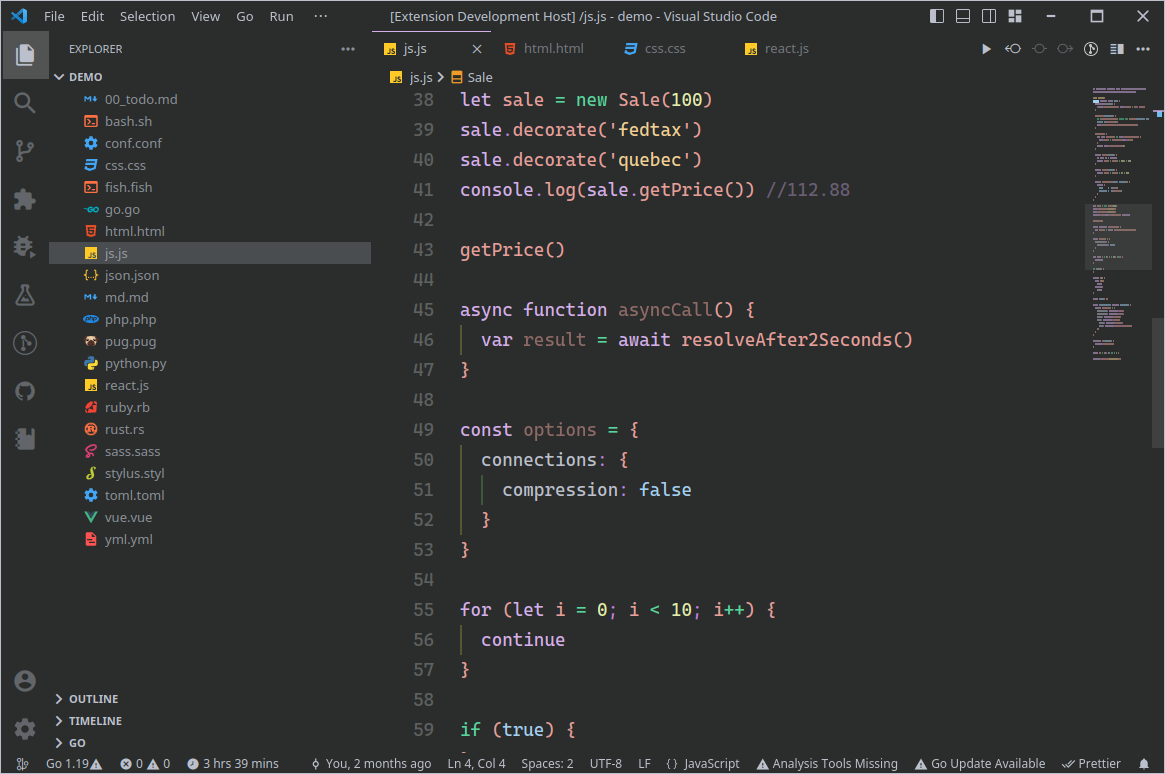
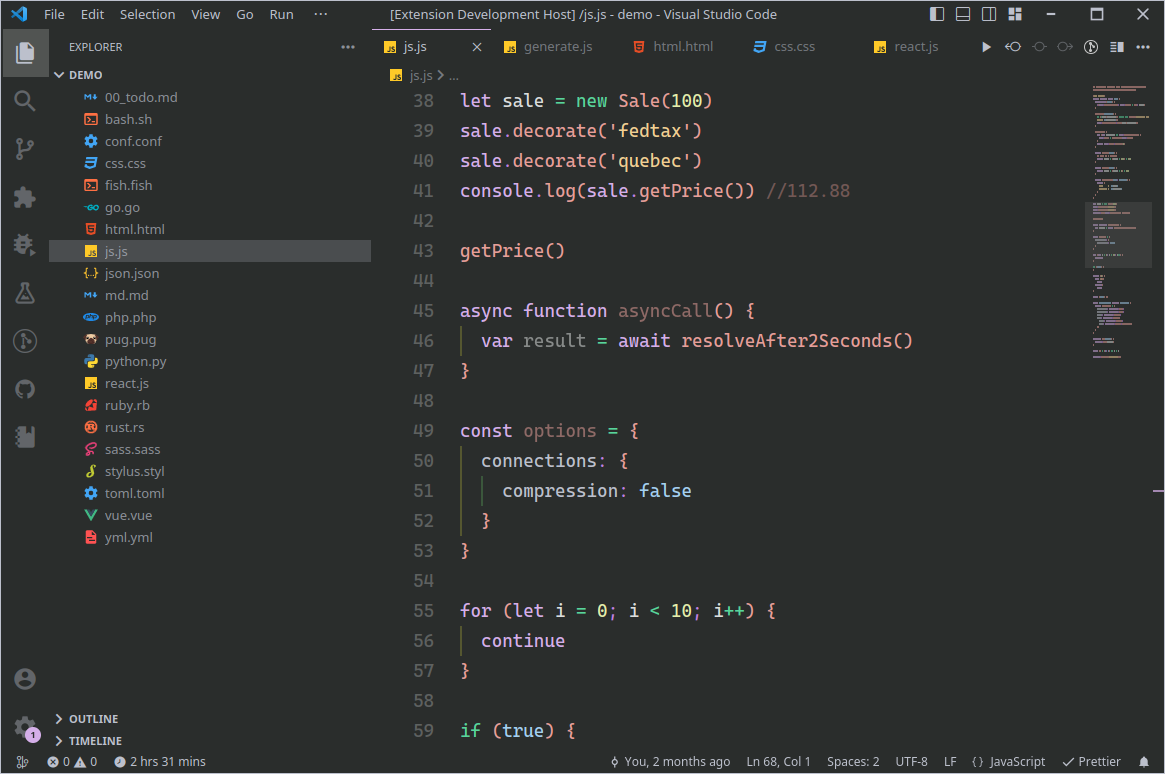
Updated colors and screenshots

diff --git a/CHANGELOG.md b/CHANGELOG.md
@@ -4,6 +4,10 @@
 
 <!-- Check [Keep a Changelog](http://keepachangelog.com/) for recommendations on how to structure this file. -->
 
+## [1.0.4] 2023-xx-xx
+
+- Change color of function parameters and variable assignments in JS to white for better contrast
+
 ## [1.0.3] 2023-02-08
 
 - Change color of comments on Black and Black flat to red. Previous color was purple.
